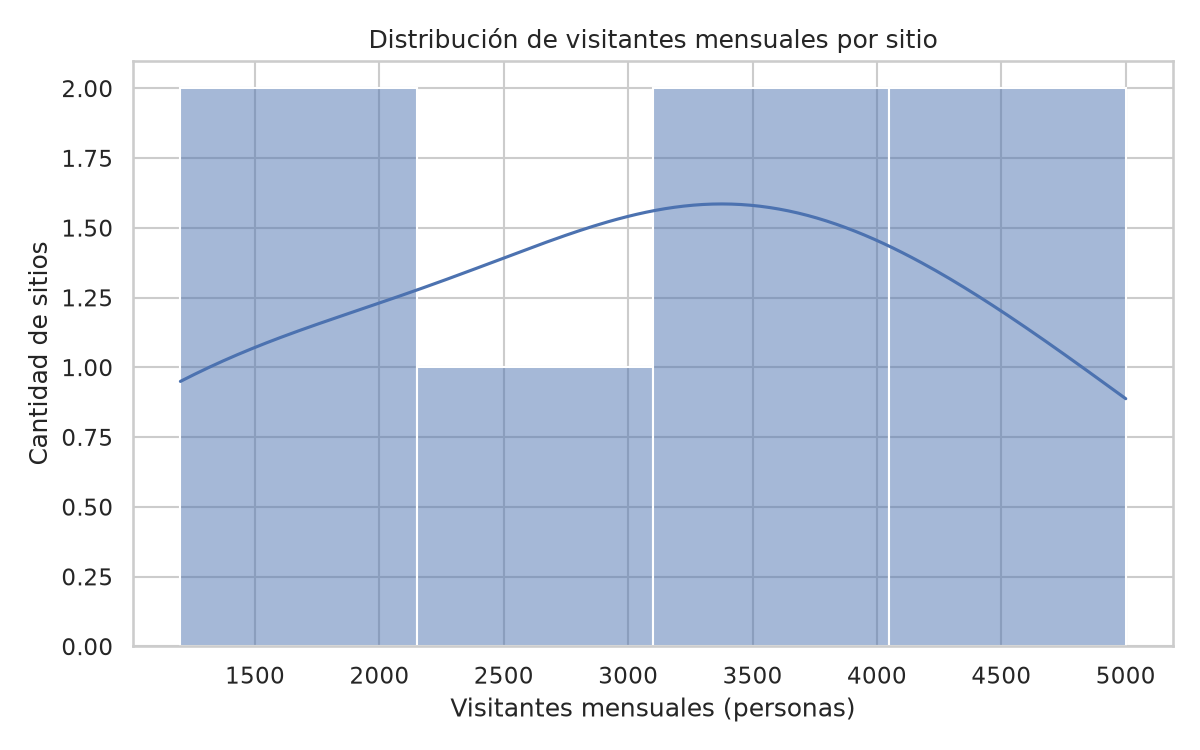
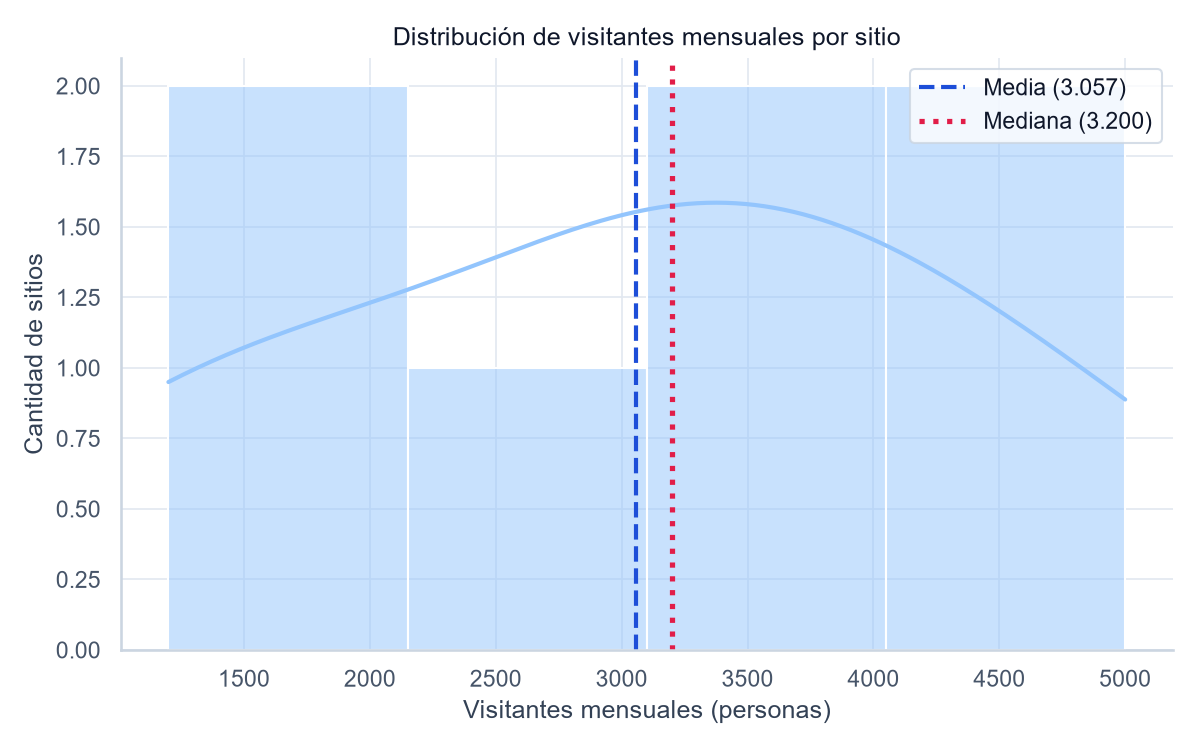
Mejora visualizaciones y preparación de datos turísticos

diff --git a/TurismoCartagoIA/src/preparacion_datos.py b/TurismoCartagoIA/src/preparacion_datos.py
@@ -4,6 +4,7 @@ import matplotlib.pyplot as plt
 import numpy as np
 import pandas as pd
 import seaborn as sns
+from matplotlib.lines import Line2D
 
 
 PROJECT_DIR = Path(__file__).resolve().parent.parent
@@ -141,13 +142,58 @@ def agregar_caracteristicas(datos):
 def visualizar_datos(datos, output_dir):
     output_dir = Path(output_dir)
     output_dir.mkdir(parents=True, exist_ok=True)
-    sns.set_theme(style="whitegrid")
+    category_palette = {
+        "Histórico": "#2563EB",
+        "Religioso": "#0F766E",
+        "Cultural": "#7C3AED",
+        "Recreativo": "#D97706",
+        "Gastronomía": "#DB2777",
+        "Compras": "#475569",
+    }
+    sns.set_theme(
+        style="whitegrid",
+        rc={
+            "axes.edgecolor": "#CBD5E1",
+            "grid.color": "#E2E8F0",
+            "grid.linewidth": 0.8,
+            "axes.labelcolor": "#334155",
+            "xtick.color": "#475569",
+            "ytick.color": "#475569",
+            "text.color": "#0F172A",
+        },
+    )
 
     figura, eje = plt.subplots(figsize=(8, 5))
-    sns.histplot(data=datos, x="visitantes_mes", bins="auto", kde=True, ax=eje)
+    sns.histplot(
+        data=datos,
+        x="visitantes_mes",
+        bins="auto",
+        kde=True,
+        color="#93C5FD",
+        line_kws={"color": "#1D4ED8", "linewidth": 2},
+        ax=eje,
+    )
+    media_visitantes = datos["visitantes_mes"].mean()
+    mediana_visitantes = datos["visitantes_mes"].median()
+    eje.axvline(
+        media_visitantes,
+        color="#1D4ED8",
+        linestyle="--",
+        linewidth=2,
+        label=f"Media ({media_visitantes:,.0f})".replace(",", "."),
+    )
+    eje.axvline(
+        mediana_visitantes,
+        color="#E11D48",
+        linestyle=":",
+        linewidth=2.5,
+        label=f"Mediana ({mediana_visitantes:,.0f})".replace(",", "."),
+    )
     eje.set_title("Distribución de visitantes mensuales por sitio")
     eje.set_xlabel("Visitantes mensuales (personas)")
     eje.set_ylabel("Cantidad de sitios")
+    eje.legend(frameon=True, facecolor="white", edgecolor="#CBD5E1")
+    sns.despine(ax=eje)
     figura.tight_layout()
     figura.savefig(output_dir / "seaborn_distribucion_visitantes.png", dpi=150)
     plt.close(figura)
@@ -157,13 +203,19 @@ def visualizar_datos(datos, output_dir):
         data=datos,
         x="categoria",
         y="visitantes_mes",
+        hue="categoria",
+        hue_order=list(category_palette),
+        palette=category_palette,
+        dodge=False,
         errorbar=None,
+        legend=False,
         ax=eje,
     )
     eje.set_title("Visitantes mensuales promedio por categoría")
     eje.set_xlabel("Categoría")
     eje.set_ylabel("Visitantes mensuales promedio")
     eje.tick_params(axis="x", rotation=30)
+    sns.despine(ax=eje)
     figura.tight_layout()
     figura.savefig(output_dir / "seaborn_visitantes_categoria.png", dpi=150)
     plt.close(figura)
@@ -174,12 +226,27 @@ def visualizar_datos(datos, output_dir):
         x="visitantes_mes",
         y="calificacion",
         hue="categoria",
+        hue_order=list(category_palette),
+        palette=category_palette,
         s=100,
         ax=eje,
     )
     eje.set_title("Visitantes mensuales y calificación por sitio")
     eje.set_xlabel("Visitantes mensuales")
     eje.set_ylabel("Calificación")
+    eje.legend(title="Categoría", frameon=True, facecolor="white", edgecolor="#CBD5E1")
+    for sitio, x, y in zip(
+        datos["nombre"], datos["visitantes_mes"], datos["calificacion"]
+    ):
+        eje.annotate(
+            sitio,
+            (x, y),
+            xytext=(6, 5),
+            textcoords="offset points",
+            fontsize=8,
+            color="#334155",
+        )
+    sns.despine(ax=eje)
     figura.tight_layout()
     figura.savefig(output_dir / "seaborn_visitantes_calificacion.png", dpi=150)
     plt.close(figura)
@@ -198,24 +265,75 @@ def visualizar_datos(datos, output_dir):
     )
 
     figura, eje = plt.subplots(figsize=(9, 5))
-    sns.stripplot(
-        data=datos_objetivo,
-        x="clase_afluencia",
-        y="calificacion",
-        hue="acceso",
-        order=["Baja (< mediana)", "Alta (>= mediana)"],
-        hue_order=["Gratuito", "Con costo"],
-        dodge=True,
-        jitter=0.12,
-        size=9,
-        ax=eje,
-    )
+    clases = ["Baja (< mediana)", "Alta (>= mediana)"]
+    colores_clase = {
+        clases[0]: "#2563EB",
+        clases[1]: "#E11D48",
+    }
+    marcadores_acceso = {"Gratuito": "o", "Con costo": "s"}
+    for clase in clases:
+        for acceso, marcador in marcadores_acceso.items():
+            subconjunto = datos_objetivo.loc[
+                datos_objetivo["clase_afluencia"].eq(clase)
+                & datos_objetivo["acceso"].eq(acceso)
+            ]
+            sns.stripplot(
+                data=subconjunto,
+                x="clase_afluencia",
+                y="calificacion",
+                order=clases,
+                color=colores_clase[clase],
+                marker=marcador,
+                jitter=0.12,
+                size=9,
+                ax=eje,
+            )
     eje.set_title(
         f"Entradas y objetivo del perceptrón (mediana: {umbral_visitantes:.0f})"
     )
     eje.set_xlabel("Objetivo: nivel de afluencia")
     eje.set_ylabel("Calificación")
-    eje.legend(title="Acceso")
+    leyenda_clases = eje.legend(
+        handles=[
+            Line2D(
+                [0],
+                [0],
+                marker="o",
+                color="w",
+                markerfacecolor=colores_clase[clase],
+                markersize=8,
+                label=clase,
+            )
+            for clase in clases
+        ],
+        title="Clase de afluencia",
+        loc="upper right",
+        frameon=True,
+        facecolor="white",
+        edgecolor="#CBD5E1",
+    )
+    eje.add_artist(leyenda_clases)
+    eje.legend(
+        handles=[
+            Line2D(
+                [0],
+                [0],
+                marker=marcador,
+                color="#475569",
+                linestyle="None",
+                markersize=7,
+                label=acceso,
+            )
+            for acceso, marcador in marcadores_acceso.items()
+        ],
+        title="Acceso",
+        loc="lower right",
+        frameon=True,
+        facecolor="white",
+        edgecolor="#CBD5E1",
+    )
+    eje.grid(axis="x", visible=False)
+    sns.despine(ax=eje)
     figura.tight_layout()
     figura.savefig(output_dir / "seaborn_entradas_objetivo.png", dpi=150)
     plt.close(figura)
